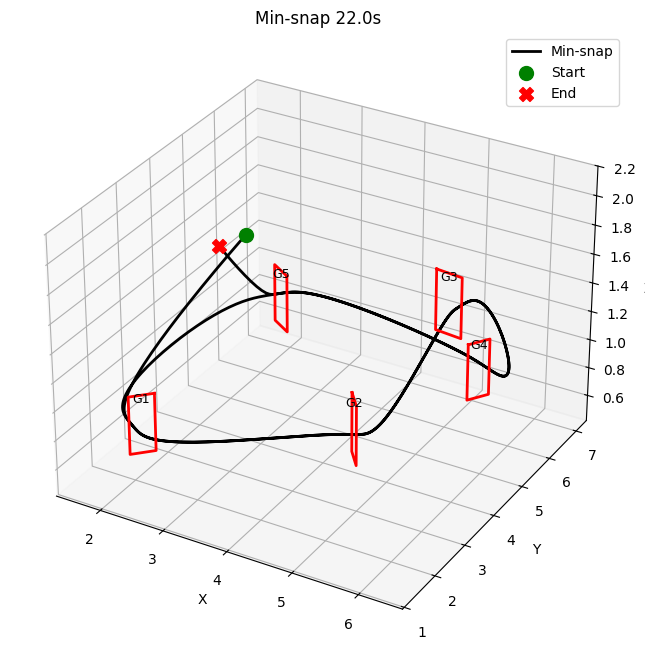
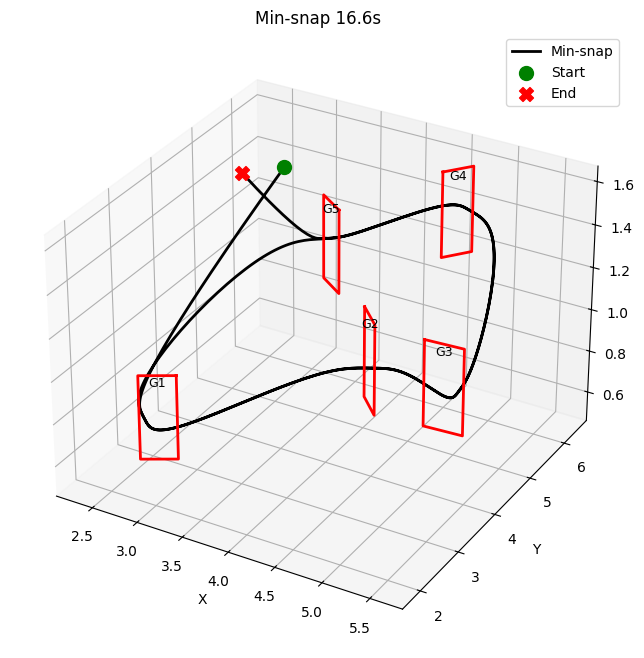
decreased MINCONTOURAREA

diff --git a/controllers/main/assignment/my_assignment.py b/controllers/main/assignment/my_assignment.py
@@ -32,7 +32,7 @@ GATE_OBJ_POINTS = np.array([[-_hw, -_hh, 0.0],
 HSV_LOWER_MAG1 = np.array([138,  20, 110])
 HSV_UPPER_MAG1 = np.array([158, 210, 255])
 
-MIN_CONTOUR_AREA = 80   # seul filtre de taille — élimine uniquement le bruit HSV isolé
+MIN_CONTOUR_AREA = 20   # seul filtre de taille — élimine uniquement le bruit HSV isolé
 
 NUM_GATES   = 5
 CRUISE_ALT  = 1.5
